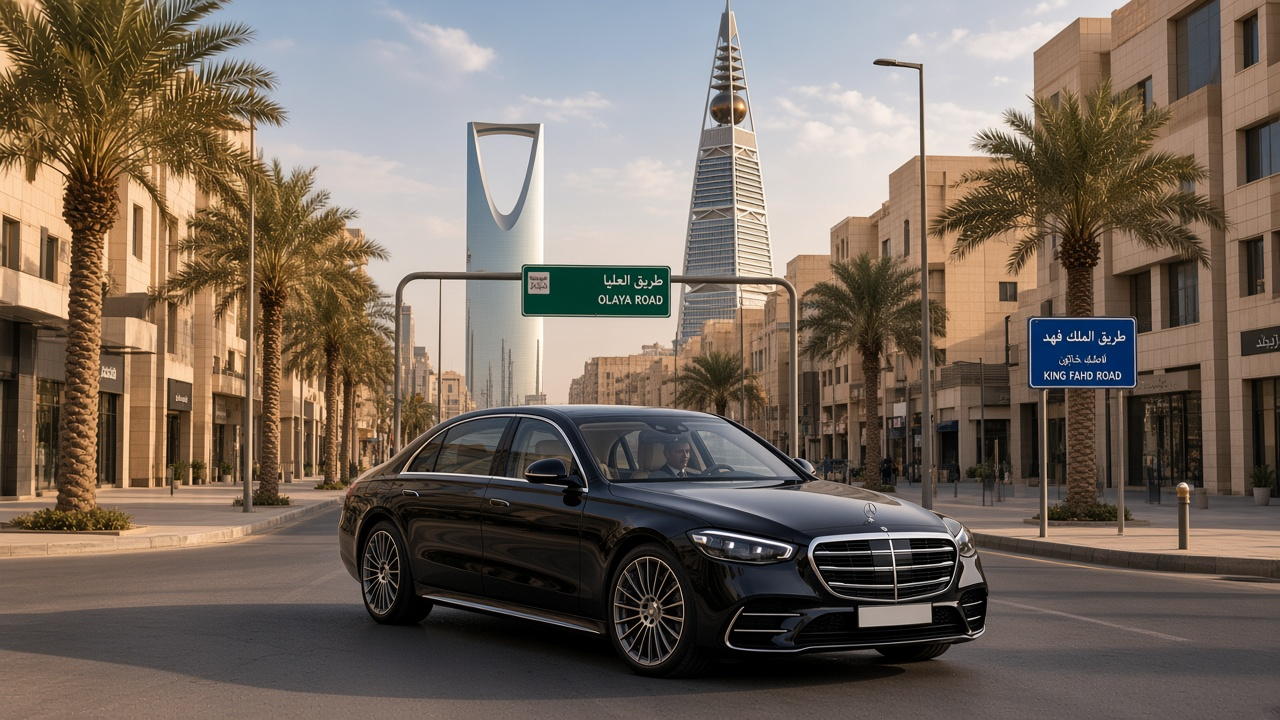
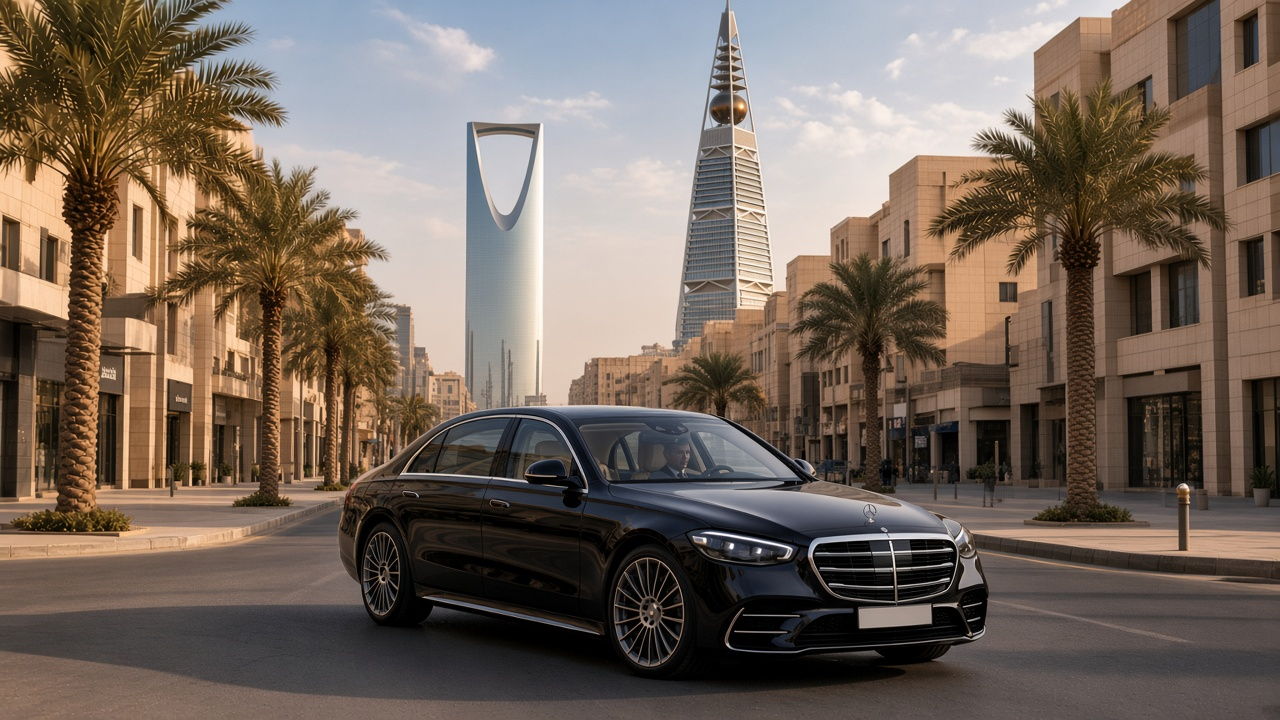
Replace service card photos so place-name signs and lettering are gone.

diff --git a/Front-end/Nextify/src/components/pricing/ServiceRates.jsx b/Front-end/Nextify/src/components/pricing/ServiceRates.jsx
@@ -11,13 +11,13 @@ const CARDS = [
   {
     serviceType: 'airport_transfer',
     Icon: SERVICE_ICONS.airport_transfer,
-    image: '/images/services/service-airport.jpg?v=3',
+    image: '/images/services/service-airport.jpg?v=4',
     altKey: 'rates.airportAlt',
   },
   {
     serviceType: 'city_transfer',
     Icon: SERVICE_ICONS.city_transfer,
-    image: '/images/services/service-city.jpg?v=3',
+    image: '/images/services/service-city.jpg?v=4',
     altKey: 'rates.cityAlt',
   },
   {
@@ -29,13 +29,13 @@ const CARDS = [
   {
     serviceType: 'intercity_transfer',
     Icon: SERVICE_ICONS.intercity_transfer,
-    image: '/images/services/service-intercity.jpg?v=2',
+    image: '/images/services/service-intercity.jpg?v=4',
     altKey: 'rates.intercityAlt',
   },
   {
     serviceType: 'gcc_transfer',
     Icon: SERVICE_ICONS.gcc_transfer,
-    image: '/images/services/service-gcc.jpg?v=3',
+    image: '/images/services/service-gcc.jpg?v=4',
     altKey: 'rates.gccAlt',
   },
 ];

diff --git a/Front-end/Nextify/src/components/booking/BookingWizard.jsx b/Front-end/Nextify/src/components/booking/BookingWizard.jsx
@@ -37,11 +37,11 @@ import './Booking.css';
 import { CheckCircleIcon, CoinsIcon, SERVICE_ICONS, ShieldIcon, UserIcon } from '../icons';
 
 const SERVICE_IMAGES = {
-  airport_transfer: '/images/services/service-airport.jpg?v=3',
-  city_transfer: '/images/services/service-city.jpg?v=3',
+  airport_transfer: '/images/services/service-airport.jpg?v=4',
+  city_transfer: '/images/services/service-city.jpg?v=4',
   chauffeur: '/images/services/service-chauffeur.jpg?v=3',
-  intercity_transfer: '/images/services/service-intercity.jpg?v=2',
-  gcc_transfer: '/images/services/service-gcc.jpg?v=3',
+  intercity_transfer: '/images/services/service-intercity.jpg?v=4',
+  gcc_transfer: '/images/services/service-gcc.jpg?v=4',
 };
 
 const SERVICE_ALT_KEYS = {
